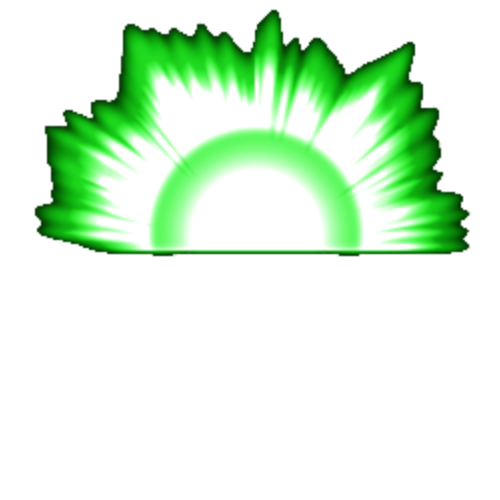
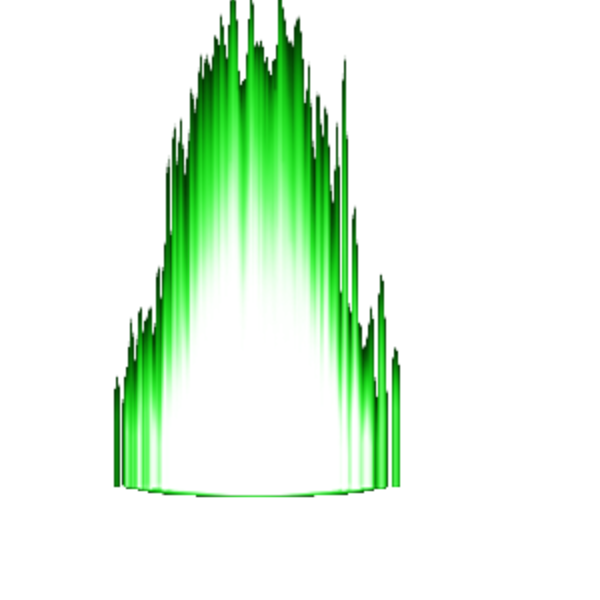
Stomp attack implemented

diff --git a/components/MeilingController.js b/components/MeilingController.js
@@ -3,8 +3,9 @@ class MeilingController {
         this.boss = boss;
         this.game = game;
         this.player = this.boss.player;
-        this.timer = 180;
+        this.timer = 0;
         this.attackDuration = 0;
+        this.effectSpawn = false;
     }
 
     facePlayer() {
@@ -16,12 +17,11 @@ class MeilingController {
     attack(state) {
         this.boss.state = state;
         this.boss.animations[this.boss.facing][state].resetFrames();
-        this.attackDuration = this.boss.animations[this.boss.facing][state].totalTime - this.game.clockTick;
+        this.attackDuration = this.boss.animations[this.boss.facing][state].totalTime - 2 * this.game.clockTick;
     }
     update() {
-        if (this.timer > 0) this.timer -= 1;
+        if (this.timer > 0) this.timer -= this.game.clockTick;
         if (this.attackDuration > 0) this.attackDuration -= this.game.clockTick;
-
         if (this.timer <= 0 && this.attackDuration <= 0 && this.boss.state == 0) { //Choose attack from Idle
             this.facePlayer();
 
@@ -43,12 +43,20 @@ class MeilingController {
                 }
                 case(3): {
                     if (this.attackDuration < (7/11) * this.boss.animations[this.boss.facing][3].totalTime &&
-                    this.attackDuration > (5/11) * this.boss.animations[this.boss.facing][3].totalTime)
+                    this.attackDuration > (6/11) * this.boss.animations[this.boss.facing][3].totalTime)
                         this.boss.x -= (-1 + this.boss.facing * 2) * 15; break;
                 }
                 case(6): {//STOMP
                     if (this.attackDuration < (5/7) * this.boss.animations[this.boss.facing][6].totalTime &&
-                    this.attackDuration > (3/7) * this.boss.animations[this.boss.facing][6].totalTime)
+                    this.attackDuration > (3/7) * this.boss.animations[this.boss.facing][6].totalTime) { //Hitbox spawns
+                        this.game.addEntity(new Hitbox(this.boss.x - 48, this.boss.y, 285, 120, 0, 0, 0, this.game));
+                        this.game.addEntity(new Hitbox(this.boss.x + 42, this.boss.y - 346, 100, 475, 0, 0, 0, this.game));
+                        this.game.addEntity(new Hitbox(this.boss.x, this.boss.y - 150, 200, 275, 0, 0, 0, this.game));
+                        if (this.effectSpawn == false) {
+                            this.game.addEntity(new Effect(this.boss.x - 163, this.boss.y - 366));
+                        }
+                        this.effectSpawn = true;
+                    }
 
                     break;
                 }
@@ -75,7 +83,8 @@ class MeilingController {
                     break;
                 }
                 default: {
-                    this.timer = 180;
+                    this.effectSpawn = false;
+                    this.timer = 180 * this.game.clockTick;
                     this.boss.state = 0;
                     break;
                 }

diff --git a/Entities/Effect.js b/Entities/Effect.js
@@ -1,22 +1,25 @@
 class Effect {
-    constructor(x, y, width, height, game) {
+    constructor(x, y) {
         this.id = "effect";
-        this.game = game;
         this.x = x;
         this.y = y;
-        this.width = width
-        this.height = height;
         this.sprite = ASSET_MANAGER.getAsset("./assets/Stomp.png");
         this.removeFromWorld = false;
+        this.alpha = 1;
     };
 
     update() {
-        this.updateBB();
-        this.removeFromWorld = true;
+        this.alpha -= 0.02;
+        if (this.alpha <= 0) {
+            this.removeFromWorld = true;
+        } 
     };
 
     draw(ctx) {
-        if (!this.removeFromWorld)
-        ctx.drawImage(this.sprite, this.x, this.y);
+        if (!this.removeFromWorld) {
+            ctx.globalAlpha = this.alpha;
+            ctx.drawImage(this.sprite, this.x, this.y);
+            ctx.globalAlpha = 1;
+        }
     };
 }

diff --git a/gameengine.js b/gameengine.js
@@ -171,8 +171,8 @@ class GameEngine {
         for (let i = 0; i < this.entities.length; i++) {
             let entity = this.entities[i];
             if (!entity.removeFromWorld) {
-                if (entity.id != "player" && entity.BB.collide(player.BB)) {
-                    if (entity.id == "boss" || entity.id == "attack") {
+                if (entity.id == "boss" || entity.id == "attack") {
+                    if (entity.BB.collide(player.BB)) {
                         player.hurt(entity);
                     }
                 }
